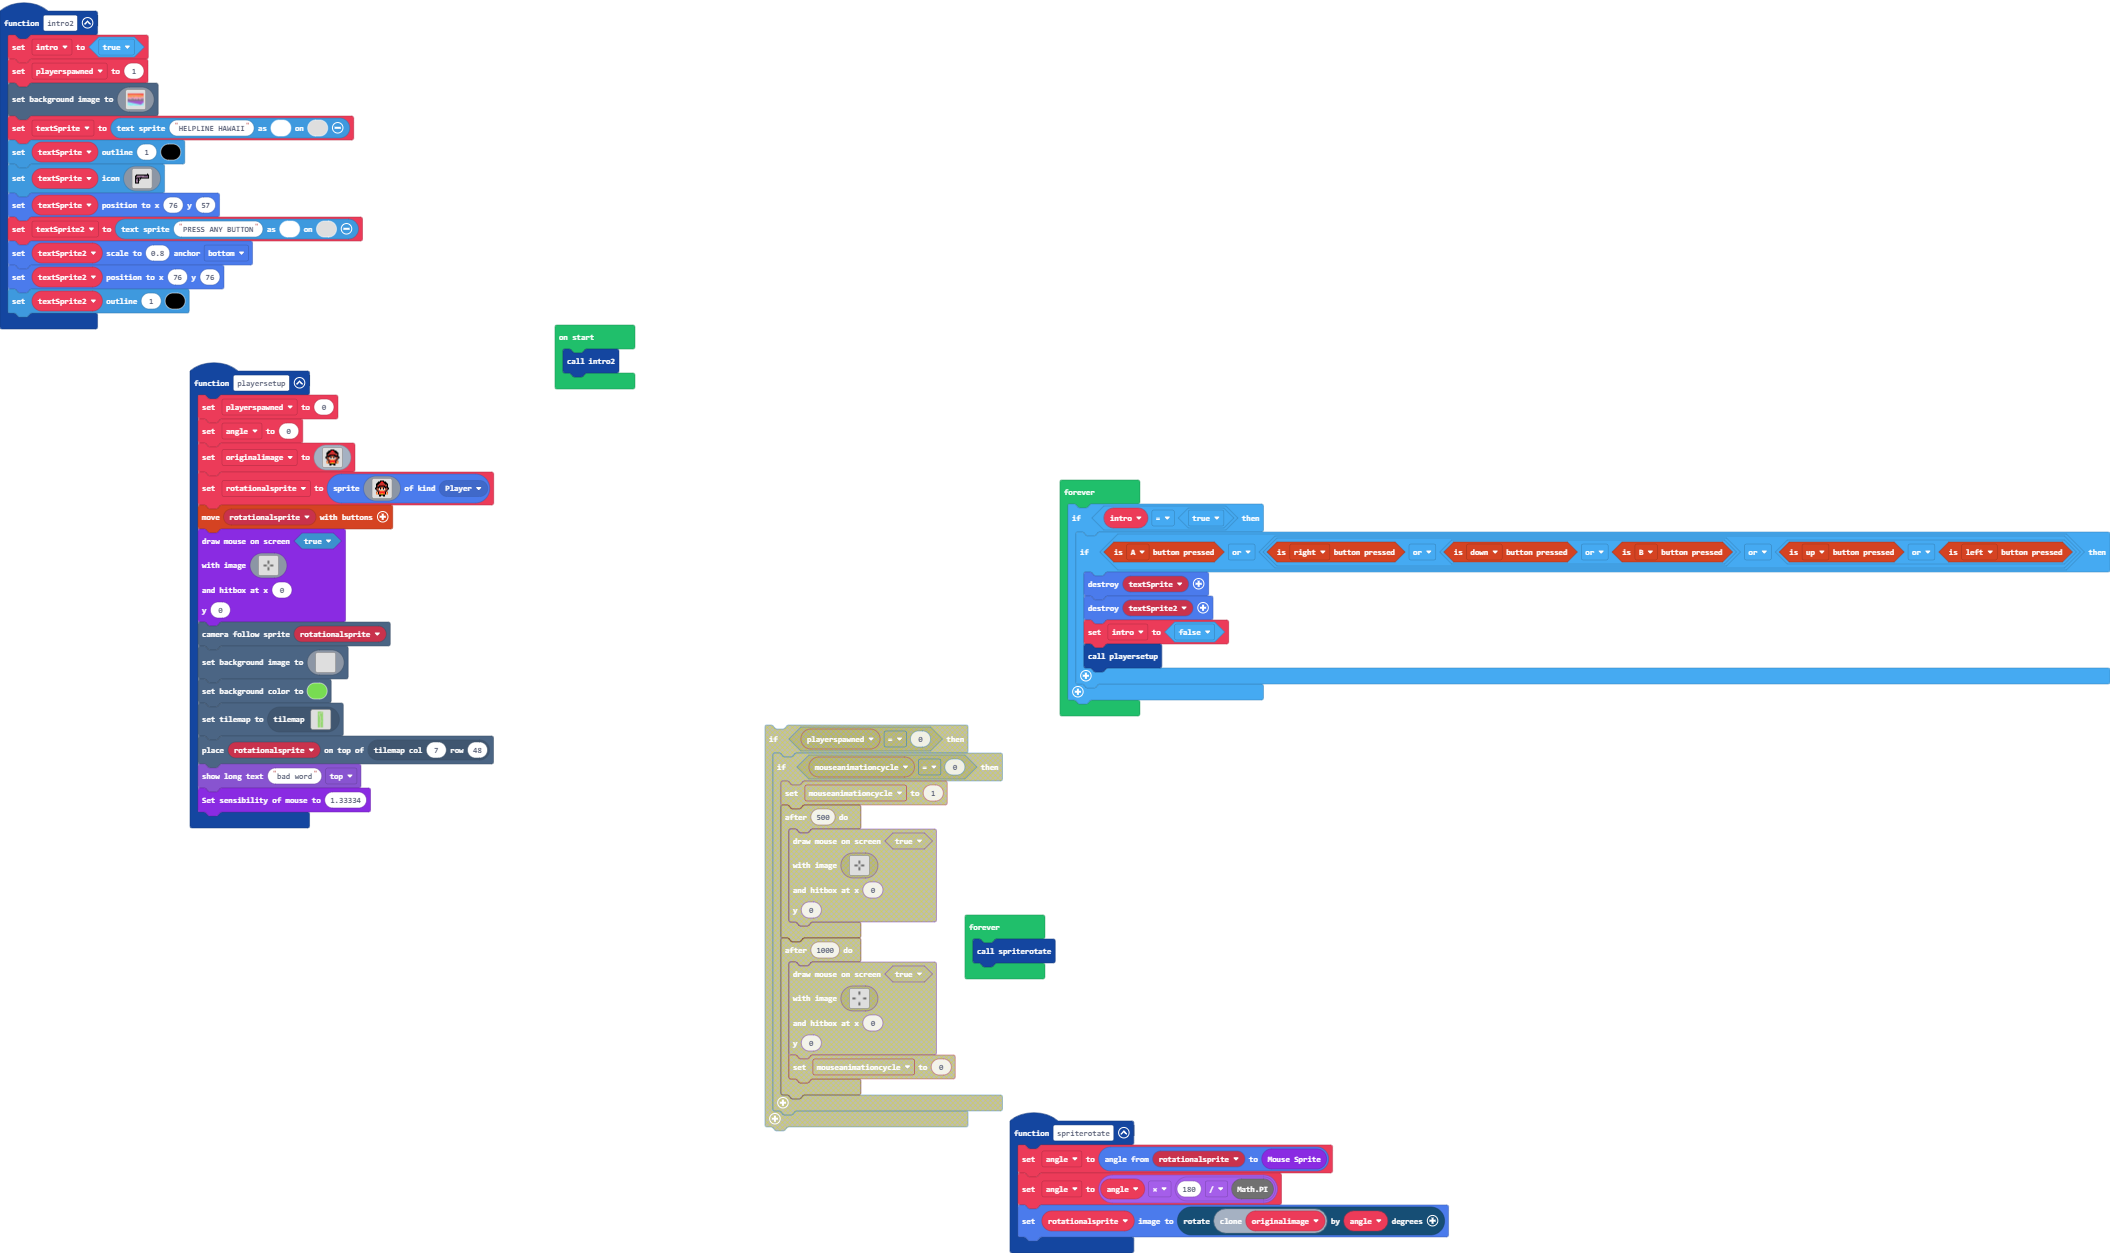
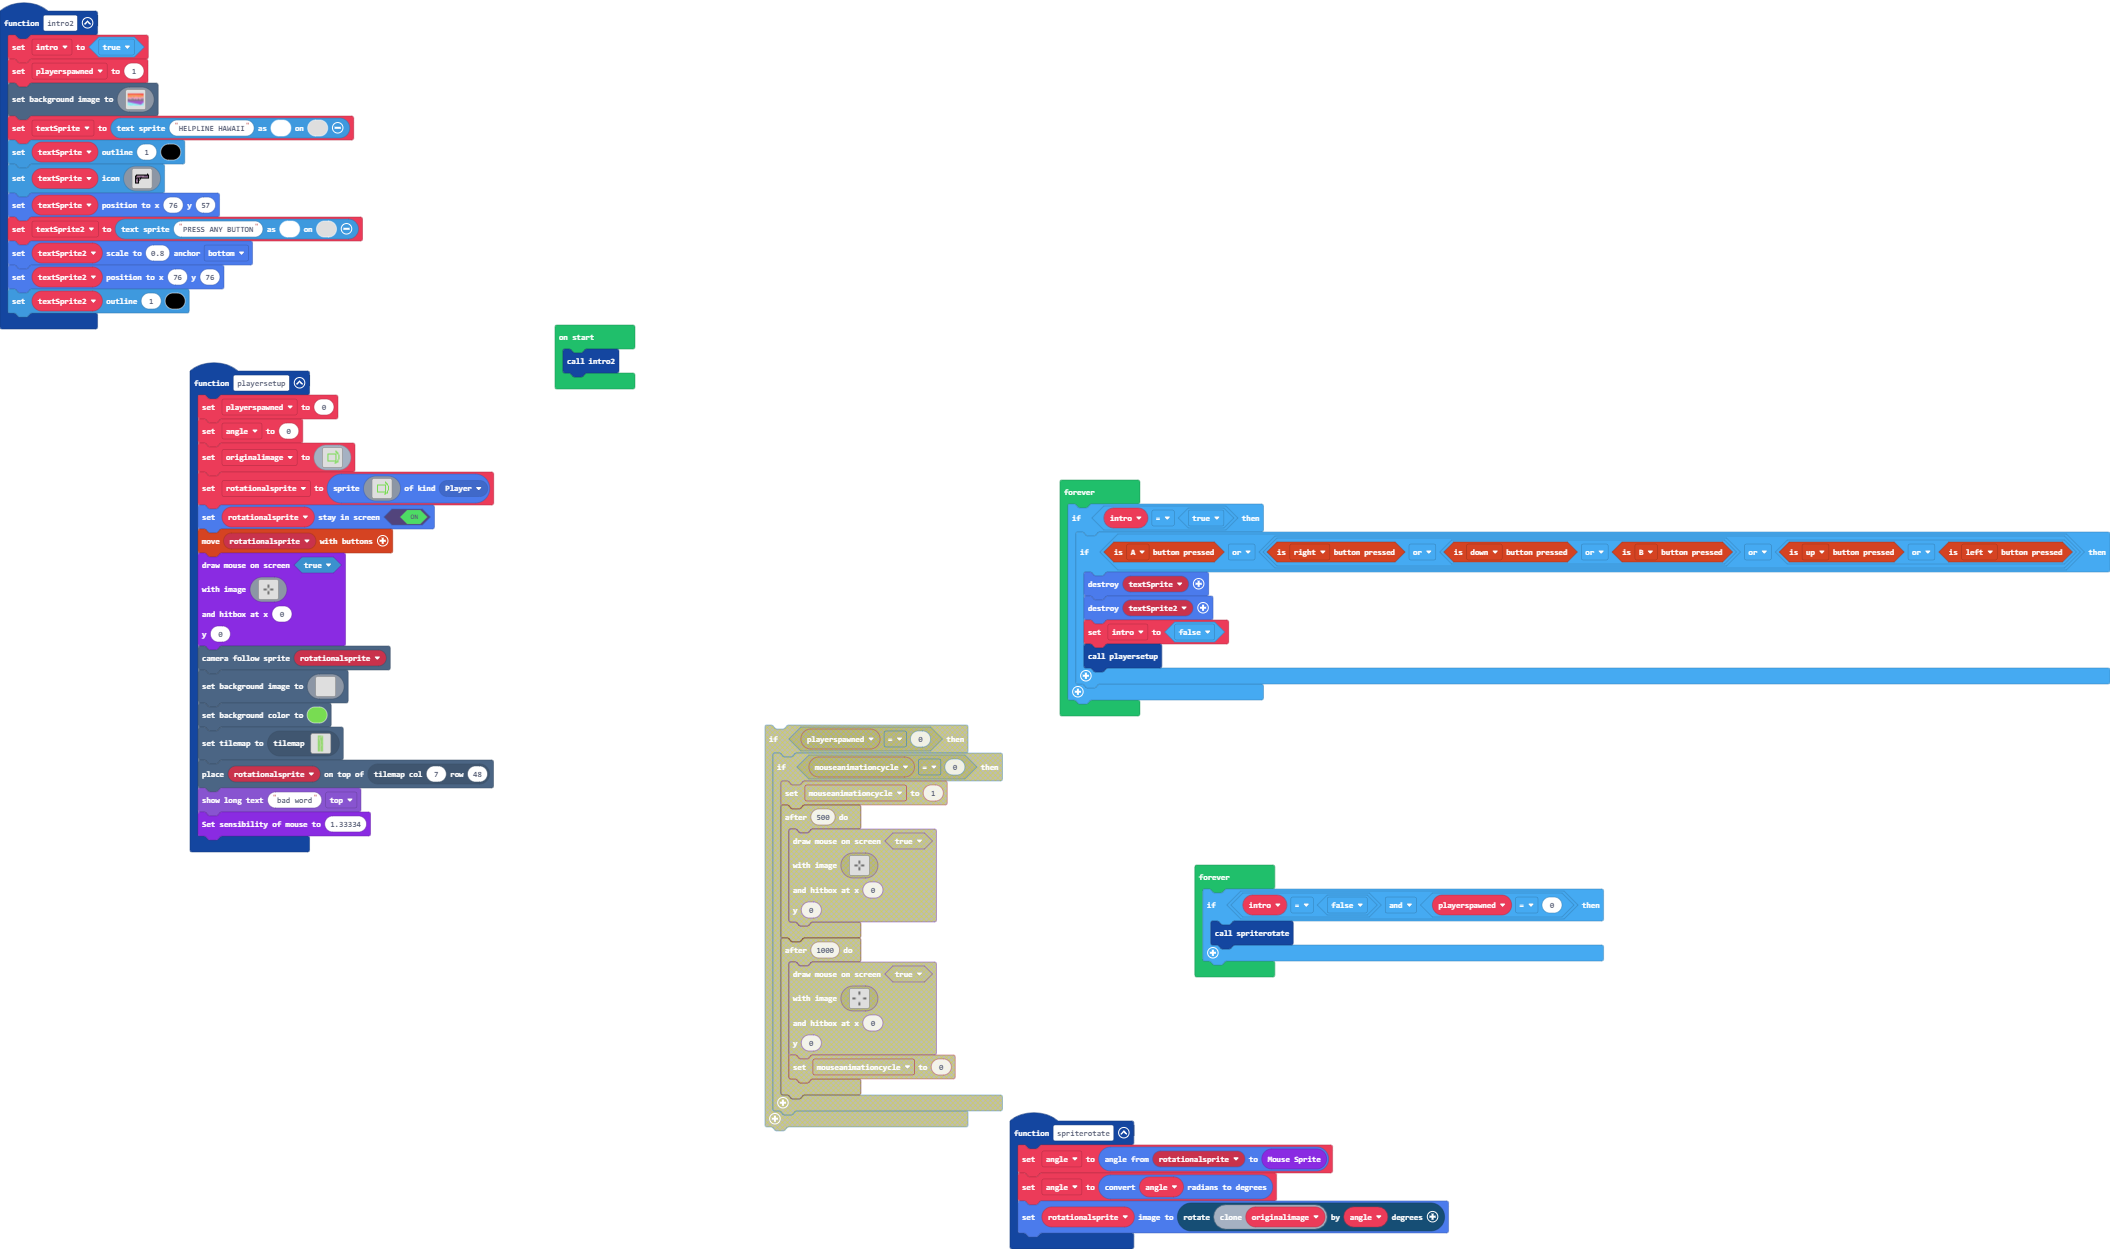
rotation complete ☻

diff --git a/tilemap.g.ts b/tilemap.g.ts
@@ -60,6 +60,25 @@ namespace myTiles {
 ......2..2......
 .....2...2......
 `, [myTiles.transparency16,sprites.builtin.forestTiles0,sprites.castle.tilePath5,sprites.castle.tilePath6,sprites.castle.tilePath9,sprites.castle.tilePath7,sprites.castle.tilePath3,sprites.castle.tilePath1,sprites.castle.tilePath4,sprites.castle.tileGrass3,sprites.swamp.swampTile3,sprites.castle.rock0,sprites.castle.saplingPine,sprites.castle.tileGrass1,sprites.castle.tilePath8,sprites.castle.tilePath2,sprites.castle.shrub], TileScale.Sixteen);
+            case "level2":
+            case "level2":return tiles.createTilemap(hex`1000100000000000000000000000000000000000000000000000000000000000000000000000000000000000000000000000000000000000000000000000000000000000000000000000000000000000000000000000000000000000000000000000000000000000000000000000000000000000000000000000000000000000000000000000000000000000000000000000000000000000000000000000000000000000000000000000000000000000000000000000000000000000000000000000000000000000000000000000000000000000000000000000000000000000000000000000000000000000000000000000000000000000000000000000000000000000`, img`
+. . . . . . . . . . . . . . . . 
+. . . . . . . . . . . . . . . . 
+. . . . . . . . . . . . . . . . 
+. . . . . . . . . . . . . . . . 
+. . . . . . . . . . . . . . . . 
+. . . . . . . . . . . . . . . . 
+. . . . . . . . . . . . . . . . 
+. . . . . . . . . . . . . . . . 
+. . . . . . . . . . . . . . . . 
+. . . . . . . . . . . . . . . . 
+. . . . . . . . . . . . . . . . 
+. . . . . . . . . . . . . . . . 
+. . . . . . . . . . . . . . . . 
+. . . . . . . . . . . . . . . . 
+. . . . . . . . . . . . . . . . 
+. . . . . . . . . . . . . . . . 
+`, [myTiles.transparency16], TileScale.Sixteen);
         }
         return null;
     })

diff --git a/images.g.ts b/images.g.ts
@@ -5,22 +5,22 @@ namespace myImages {
         switch(helpers.stringTrim(name)) {
             case "image1":
             case "myImage":return img`
-. . . . . . f f f f . . . . . . 
-. . . . f f f 2 2 f f f . . . . 
-. . . f f f 2 2 2 2 f f f . . . 
-. . f f f e e e e e e f f f . . 
-. . f f e 2 2 2 2 2 2 e e f . . 
-. . f e 2 f f f f f f 2 e f . . 
-. . f f f f e e e e f f f f . . 
-. f f e f b f 4 4 f b f e f f . 
-. f e e 4 1 f d d f 1 4 e e f . 
-. . f e e d d d d d d e e f . . 
-. . . f e e 4 4 4 4 e e f . . . 
-. . e 4 f 2 2 2 2 2 2 f 4 e . . 
-. . 4 d f 2 2 2 2 2 2 f d 4 . . 
-. . 4 4 f 4 4 5 5 4 4 f 4 4 . . 
-. . . . . f f f f f f . . . . . 
-. . . . . f f . . f f . . . . . 
+. . . . . . . . . . . . . . . . 
+. . . . . . . . . . . 7 . . . . 
+. . . . . . . . . . . 7 7 . . . 
+. . . . . . . . . . . . 7 7 . . 
+. . . 7 7 7 7 7 7 7 7 7 . 7 . . 
+. . . 7 . . . . . . . 7 . . 7 . 
+. . . 7 . . . . . . . 7 . . 7 . 
+. . . 7 . . . . . . . 7 . . 7 . 
+. . . 7 . . . . . . . 7 . . 7 . 
+. . . 7 . . . . . . . 7 . . 7 . 
+. . . 7 . . . . . . . 7 . 7 . . 
+. . . 7 7 7 7 7 7 7 7 7 . 7 . . 
+. . . . . . . . . . . 7 7 7 . . 
+. . . . . . . . . . 7 7 . . . . 
+. . . . . . . . . . . . . . . . 
+. . . . . . . . . . . . . . . . 
 `;
         }
         return null;

diff --git a/main.ts b/main.ts
@@ -1,6 +1,6 @@
 function spriterotate () {
     angle = spriteutils.angleFrom(rotationalsprite, Mouse.mouseSprite())
-    angle = angle * (180 / Math.PI)
+    angle = spriteutils.radiansToDegrees(angle)
     rotationalsprite.setImage(scaling.rot(originalimage.clone(), angle))
 }
 function intro2 () {
@@ -159,6 +159,7 @@ function playersetup () {
     angle = 0
     originalimage = assets.image`myImage`
     rotationalsprite = sprites.create(assets.image`myImage`, SpriteKind.Player)
+    rotationalsprite.setStayInScreen(true)
     controller.moveSprite(rotationalsprite)
     Mouse.DrawMouse(
     true,
@@ -330,5 +331,7 @@ forever(function () {
     }
 })
 forever(function () {
-    spriterotate()
+    if (intro == false && playerspawned == 0) {
+        spriterotate()
+    }
 })
